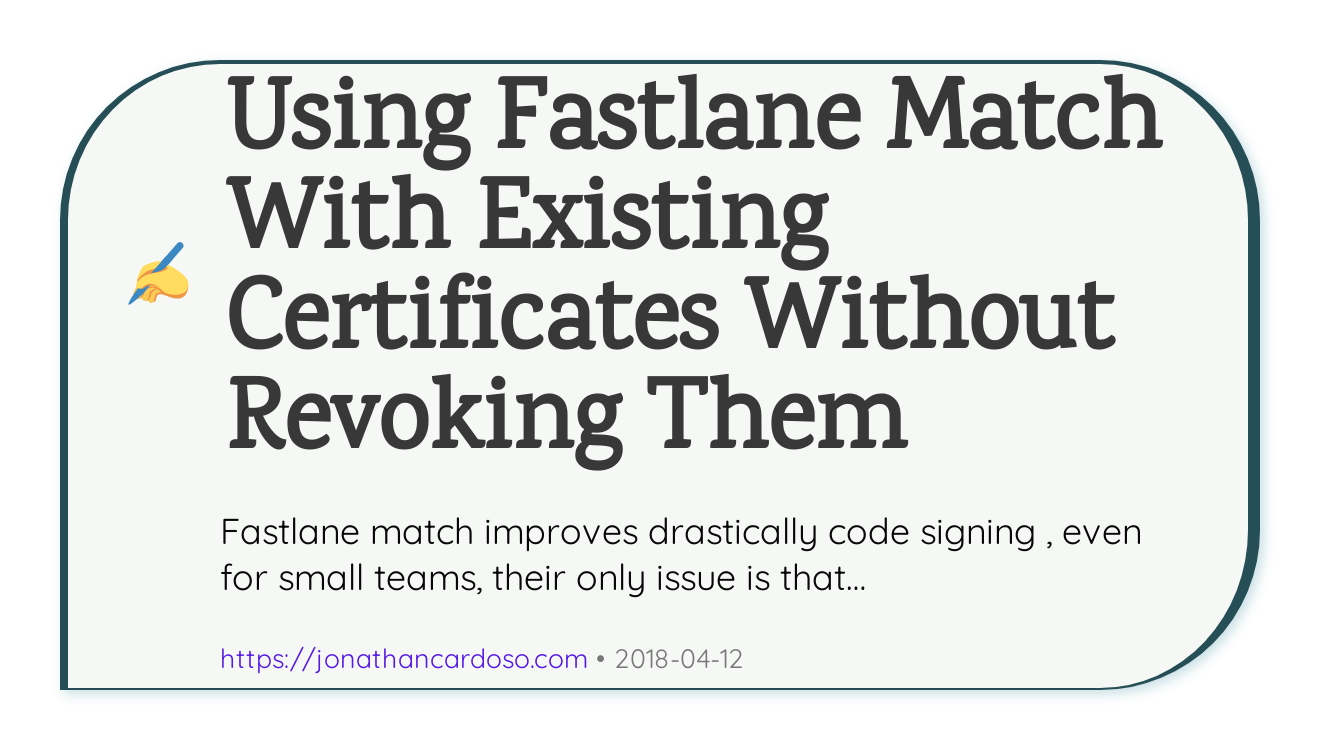
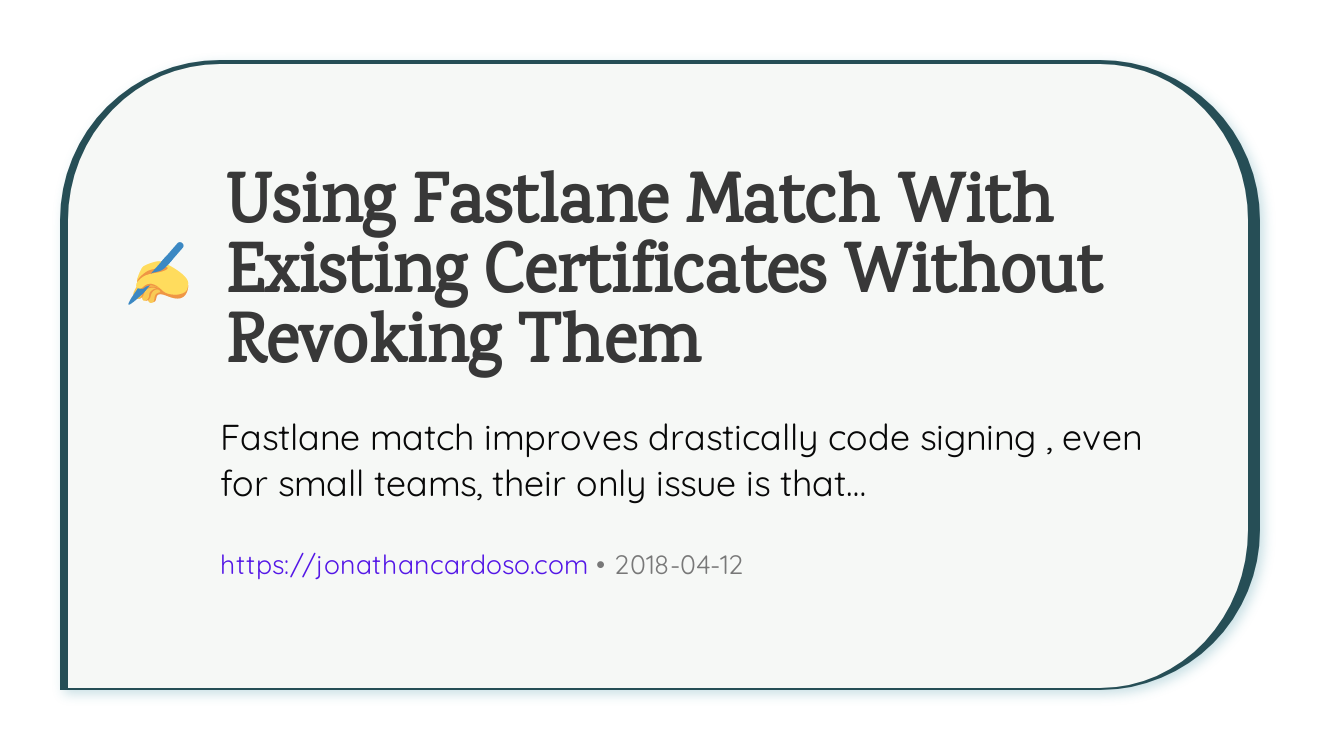
add remaining og-images

Changed region(s): [[0.1553, 0.092, 0.9008, 0.7973], [0.1553, 0.8587, 0.5591, 0.8893]]

diff --git a/gatsby/createPagesHandlers/createSocialImage.ts b/gatsby/createPagesHandlers/createSocialImage.ts
@@ -61,14 +61,6 @@ const getCardPreviewTemplate = (post: Post) => {
 }
 
 const createCard = async (post: Post) => {
-  // TODO: Remove later
-  if (
-    post.slug !==
-    '/en/blog/using-circleci-workflows-replicate-docker-hub-automated-builds/'
-  ) {
-    return
-  }
-
   const { HTML_CSS_TO_IMG_API_ID, HTML_CSS_TO_IMG_API_KEY } = process.env
 
   const template = getCardPreviewTemplate(post)
